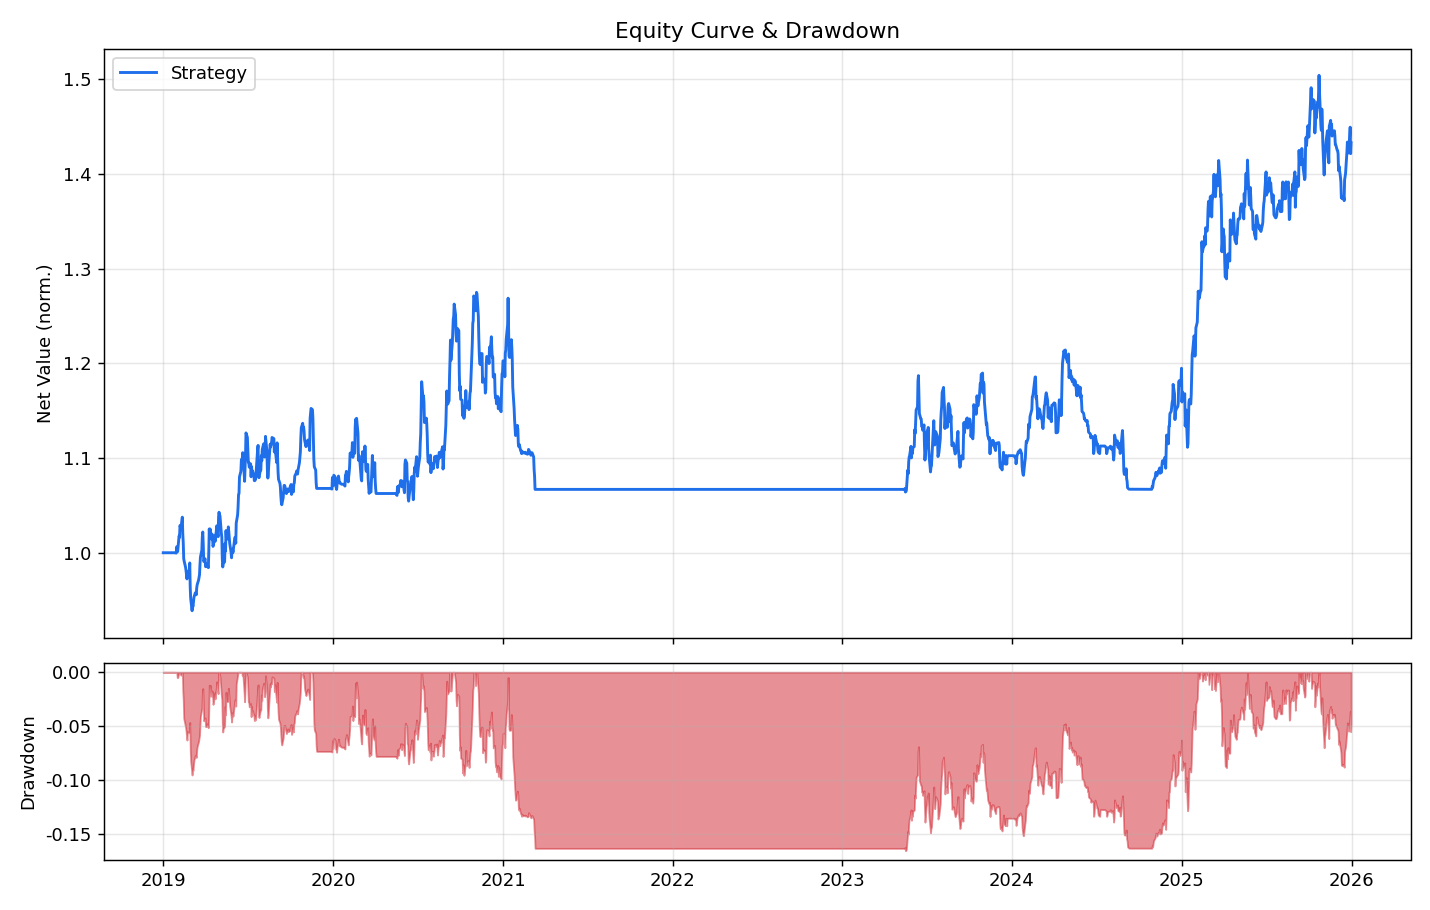
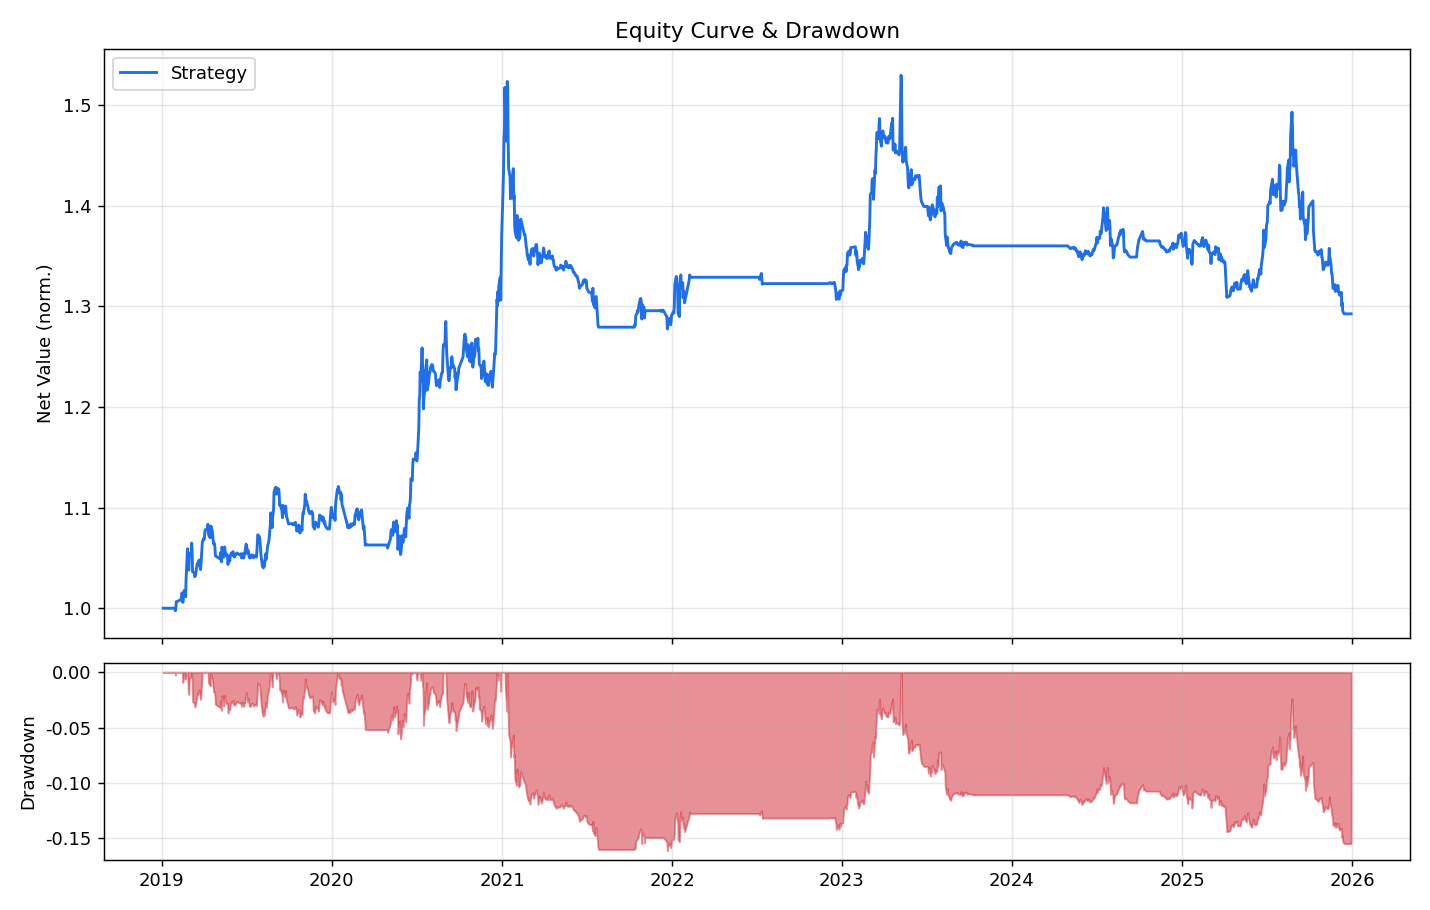
test(walkforward): run_walkforward 接入真实数据,纯样本外复核
run_walkforward 新增 --real/--n/--codes/--start/--end(复用 load_real),
候选叠加层带真实基准。在真实A股(40蓝筹)上做纯样本外走步式复核:

纯样本外(2019-2025): 年化3.9% 最大回撤-16.1%(达标) 夏普0.20 盈亏比2.24 DSR0.43
对比全样本7.3% -> 剥离样本内拟合后真实缩水(印证回测打6-7折)
各折自标定: 2019/20选vol0.08, 2021选adaptive, 2022/23选vol0.12

诚实结论: 风险工程(择时/回撤/防过拟合)经样本外检验扎实(回撤稳钉-16%,盈亏比>2);
但收益alpha弱且2020后衰减,DSR0.43统计不显著。仅量价因子+蓝筹池不是15-30%策略,
而是"低个位数收益+强风控"的稳健仓位;提升需境内财务/资金流/行业等更强alpha来源。

docs/ADVANCED_STRATEGY.md 增第五节(全样本vs纯样本外对比表); README 加结论note;
reports_walkforward/ 刷新为真实数据纯OOS图。

https://claude.ai/code/session_01DRC1ct9o3ZgxKfQ8a33md5

diff --git a/examples/run_walkforward.py b/examples/run_walkforward.py
@@ -21,6 +21,7 @@
 
 from __future__ import annotations
 
+import argparse
 import os
 import sys
 import warnings
@@ -68,24 +69,40 @@ def calmar(equity):
 
 
 def main():
+    ap = argparse.ArgumentParser()
+    ap.add_argument("--real", action="store_true", help="用真实数据(Yahoo/东财)")
+    ap.add_argument("--n", type=int, default=0, help="股票数(0=全部/合成80)")
+    ap.add_argument("--codes", type=str, default="")
+    ap.add_argument("--start", default=PERIOD.in_sample_start)
+    ap.add_argument("--end", default=PERIOD.out_sample_end)
+    args = ap.parse_args()
+
     print("=" * 72)
-    print("走步式自适应回测 — 风险叠加层滚动自标定 + 纯样本外拼接")
+    print("走步式自适应回测 — 风险叠加层滚动自标定 + 纯样本外拼接"
+          + ("  [真实数据]" if args.real else "  [合成数据]"))
     print("=" * 72)
 
-    ds = make_synthetic_dataset(n_stocks=80, start=PERIOD.in_sample_start,
-                                end=PERIOD.out_sample_end)
-    wide = {f: long_to_wide(ds["price"], f) for f in
-            ["open", "high", "low", "close", "volume", "amount", "pre_close"]}
-    wide["mf_ratio"] = long_to_wide(ds["flow"], "main_net_inflow_ratio")
-    close = wide["close"]
-    industry, log_cap = ds["industry"]["industry"], ds["industry"]["log_cap"]
-    fund = ds["fund"]
-    def align(col):
-        f = fund.reset_index().pivot_table(index="announce_date",
-                                           columns="code", values=col)
-        return f.reindex(close.index, method="ffill").reindex(columns=close.columns)
-    for c in ["roe", "gross_margin", "net_profit", "bps", "eps"]:
-        wide[c] = align(c)
+    benchmark = None
+    if args.real:
+        from examples.run_advanced import load_real
+        wide, industry, log_cap, benchmark = load_real(
+            args.n, args.start, args.end, args.codes)
+        close = wide["close"]
+    else:
+        ds = make_synthetic_dataset(n_stocks=80, start=args.start, end=args.end)
+        wide = {f: long_to_wide(ds["price"], f) for f in
+                ["open", "high", "low", "close", "volume", "amount", "pre_close"]}
+        wide["mf_ratio"] = long_to_wide(ds["flow"], "main_net_inflow_ratio")
+        close = wide["close"]
+        industry, log_cap = ds["industry"]["industry"], ds["industry"]["log_cap"]
+        fund = ds["fund"]
+        def align(col):
+            f = fund.reset_index().pivot_table(index="announce_date",
+                                               columns="code", values=col)
+            return f.reindex(close.index, method="ffill").reindex(
+                columns=close.columns)
+        for c in ["roe", "gross_margin", "net_profit", "bps", "eps"]:
+            wide[c] = align(c)
 
     raw = compute_all_factors(wide)
     neut = {n: neutralize_factor(f, industry, log_cap) for n, f in raw.items()}
@@ -106,12 +123,12 @@ def main():
             score.loc[date] = composite_score(row, w).loc[date]
     score = smooth_score(score)
 
-    # 候选风险叠加层(全样本各算一次，校准时只切训练窗)
+    # 候选风险叠加层(全样本各算一次，校准时只切训练窗)；真实数据带基准
     candidates = {
-        "vol0.08": combined_exposure(close, target_vol=0.08),
-        "vol0.10": combined_exposure(close, target_vol=0.10),
-        "vol0.12": combined_exposure(close, target_vol=0.12),
-        "adaptive": adaptive_combined_exposure(close),
+        "vol0.08": combined_exposure(close, benchmark=benchmark, target_vol=0.08),
+        "vol0.10": combined_exposure(close, benchmark=benchmark, target_vol=0.10),
+        "vol0.12": combined_exposure(close, benchmark=benchmark, target_vol=0.12),
+        "adaptive": adaptive_combined_exposure(close, benchmark=benchmark),
     }
 
     # 走步式：每折在训练窗挑最优候选，应用到其后验证窗

diff --git a/README.md b/README.md
@@ -200,8 +200,11 @@ python -m examples.run_advanced                       # 合成数据
 python -m examples.run_advanced --real --n 60         # 真实数据(东财)+沪深300基准
 
 # 4) 走步式自适应回测：风险叠加层滚动自标定 + 纯样本外拼接（最诚实的回测）
-python -m examples.run_walkforward
+python -m examples.run_walkforward                    # 合成数据
+python -m examples.run_walkforward --real --n 40      # 真实数据纯样本外
 ```
+
+> 📌 **真实数据纯样本外结论**（`run_walkforward --real`，2019–2025）：年化 **3.9%**、最大回撤 **−16.1%**、夏普 0.20、盈亏比 2.24。风控扎实、回撤达标，但收益 alpha 弱且衰减——详见 [docs/ADVANCED_STRATEGY.md](docs/ADVANCED_STRATEGY.md) 第五节。
 
 ### 进阶策略（对标 SOTA + 集中持仓≤5只）
 
